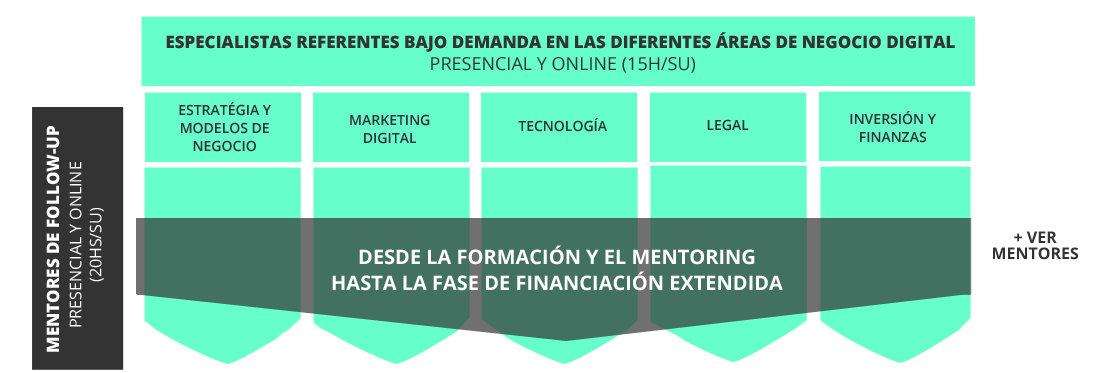
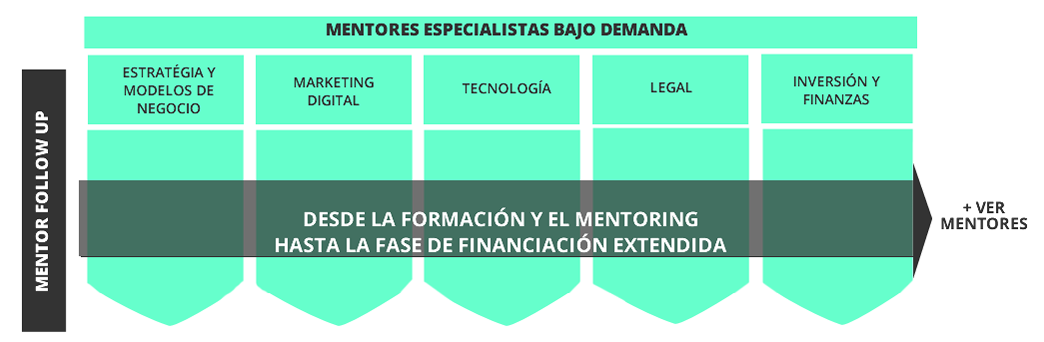
ajustes en gráficos de mentoring

diff --git a/_includes/04.how-it-works.html b/_includes/04.how-it-works.html
@@ -100,7 +100,7 @@
 									<div class="inner-top-xs">
 										<h4>D. Start-up exercises</h4>
 										<p>
-											Ejercicios prácticos que pondrán los mentores a las start-ups para evaluar su continuidad en el proceso de aceleración.
+											El objetivo de este área es aplicar lo aprendido en el proceso de formación guiados por los mentores con el fin de convertir conocimiento en experiencia real.
 										</p>
 									</div>
 								</div>
@@ -207,31 +207,22 @@
 				<div class="panel-heading">
 					<h4 class="panel-title">
 						<a class="panel-toggle collapsed" data-toggle="collapse" data-parent="#accordion2" href="#acc-formacion">
-							<span><i class="icon-book-1"></i> Formación</span>
+							<span><i class="icon-gauge"></i> Acceleración</span>
 						</a>
 					</h4>
 				</div>
 				<div id="acc-formacion" class="panel-collapse collapse">
 					<div class="panel-body text-small">
+						<p>El proceso de aceleración está basado en dos módulos: Formación y Mentoring.</p>
+						<h4>Formación</h4>
 						{% include entradillas/formacion.html %}
+						<h4>Mentoring</h4>
+						{% include entradillas/mentoring.html %}
+
 					</div>
 				</div>
 			</div><!-- /.panel -->
 
-			<div class="panel panel-default">
-				<div class="panel-heading">
-					<h4 class="panel-title">
-						<a class="panel-toggle collapsed" data-toggle="collapse" data-parent="#accordion2" href="#acc-mentoring">
-							<span><i class="icon-compass"></i> Mentoring</span>
-						</a>
-					</h4>
-				</div>
-				<div id="acc-mentoring" class="panel-collapse collapse">
-					<div class="panel-body text-small">
-						{% include entradillas/mentoring.html %}
-					</div>
-				</div>
-			</div><!-- /.panel -->
 
 			<div class="panel panel-default">
 				<div class="panel-heading">

diff --git a/_includes/08.spaces.html b/_includes/08.spaces.html
@@ -14,7 +14,7 @@
 				<p class="text-normal">
 					IMPACT tiene también un acuerdo para el uso de las instalaciones de viveros y aceleradoras de la ciudad de Madrid a través de Madrid Emprende.
 				</p>
-
+{{ comment }}
 <ul class="items col-4 gap " >
 	<li class="item thumb" >
 		<figure>
@@ -65,20 +65,16 @@
 
 		</figure>
 	</li><!-- /.item -->
-
 </ul>
-
+{{ endcomment }}
 
 			</div>
 
 		</div>
 	</div>
-	<!--
+	{{ comment }}
 	<div class="hidden-xs">
 		<iframe width="100%" height="400"  frameborder="0" scrolling="no" marginheight="0" marginwidth="0" src="https://maps.google.es/maps/ms?ie=UTF8&amp;hl=en&amp;oe=UTF8&amp;msa=0&amp;msid=209848442351704431542.0004fdd2b164fb884d225&amp;ll=42.617119,3.312326&amp;spn=4.362788,14.027789&amp;t=m&amp;output=embed"></iframe>
 	</div>
-	-->
-
-
-
+	{{ endcomment }}
 </section>
